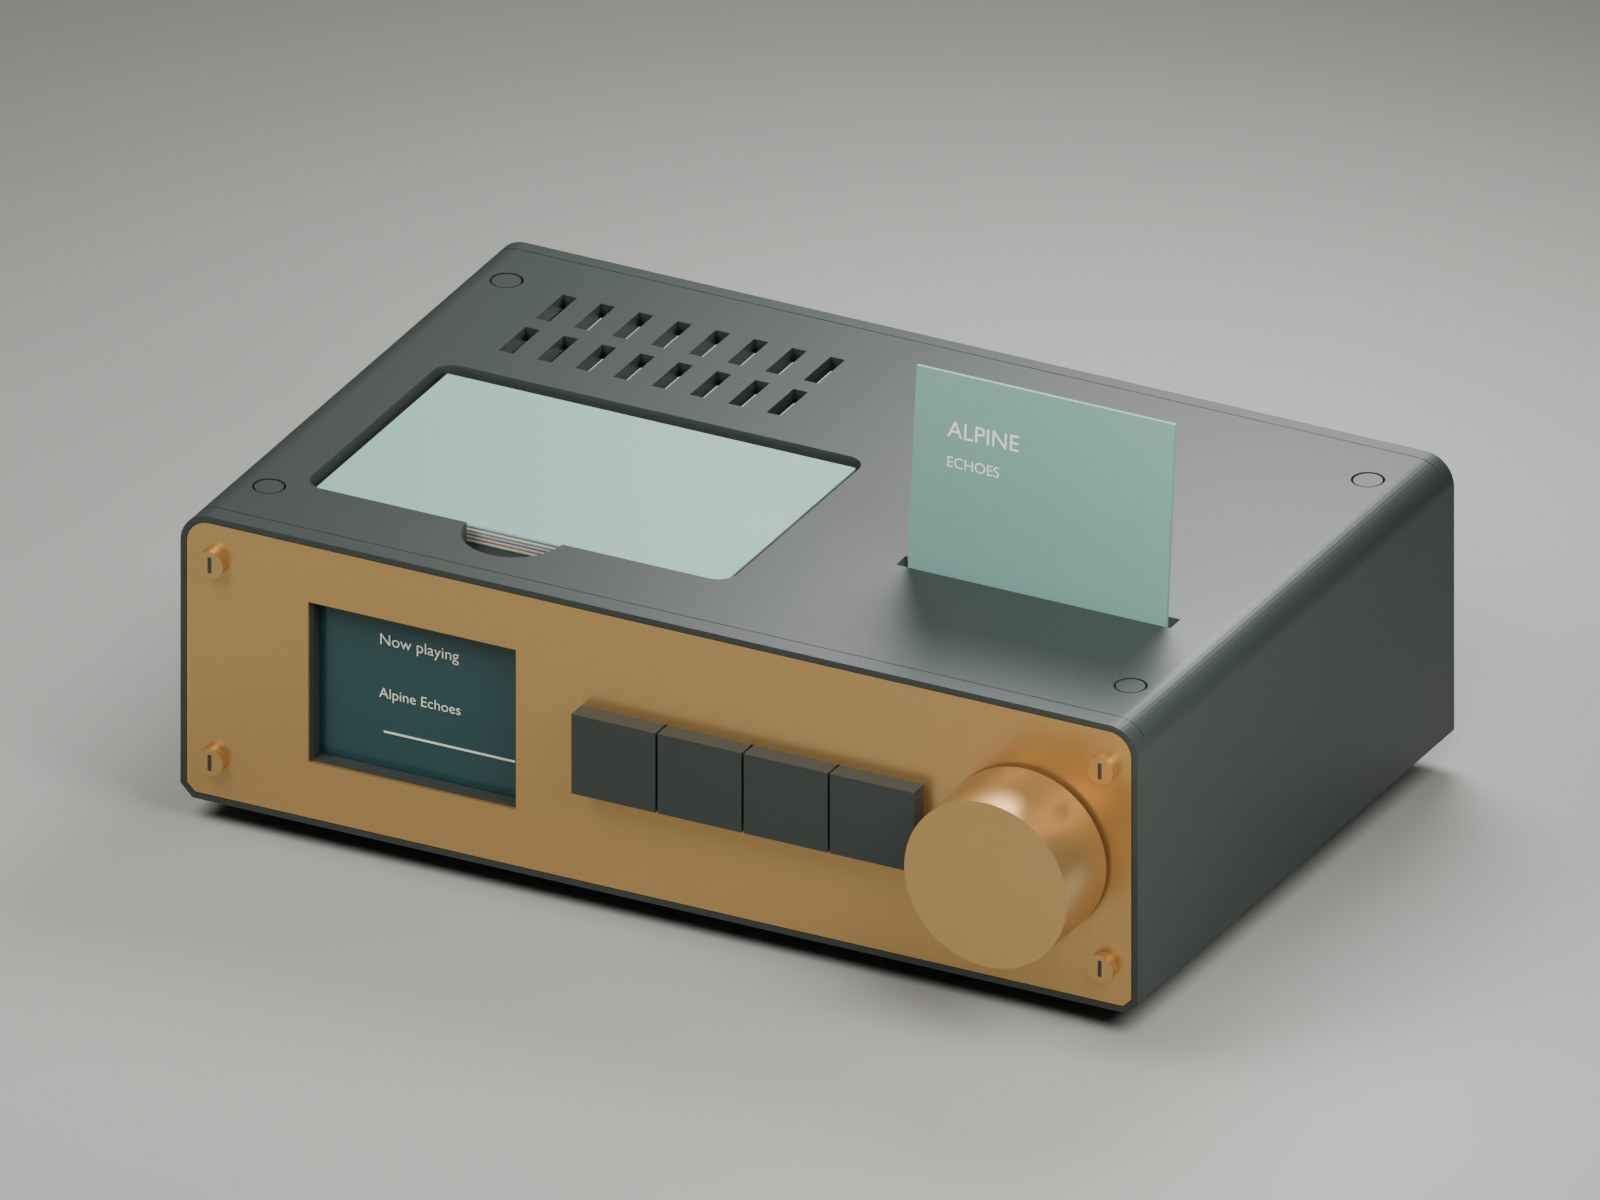
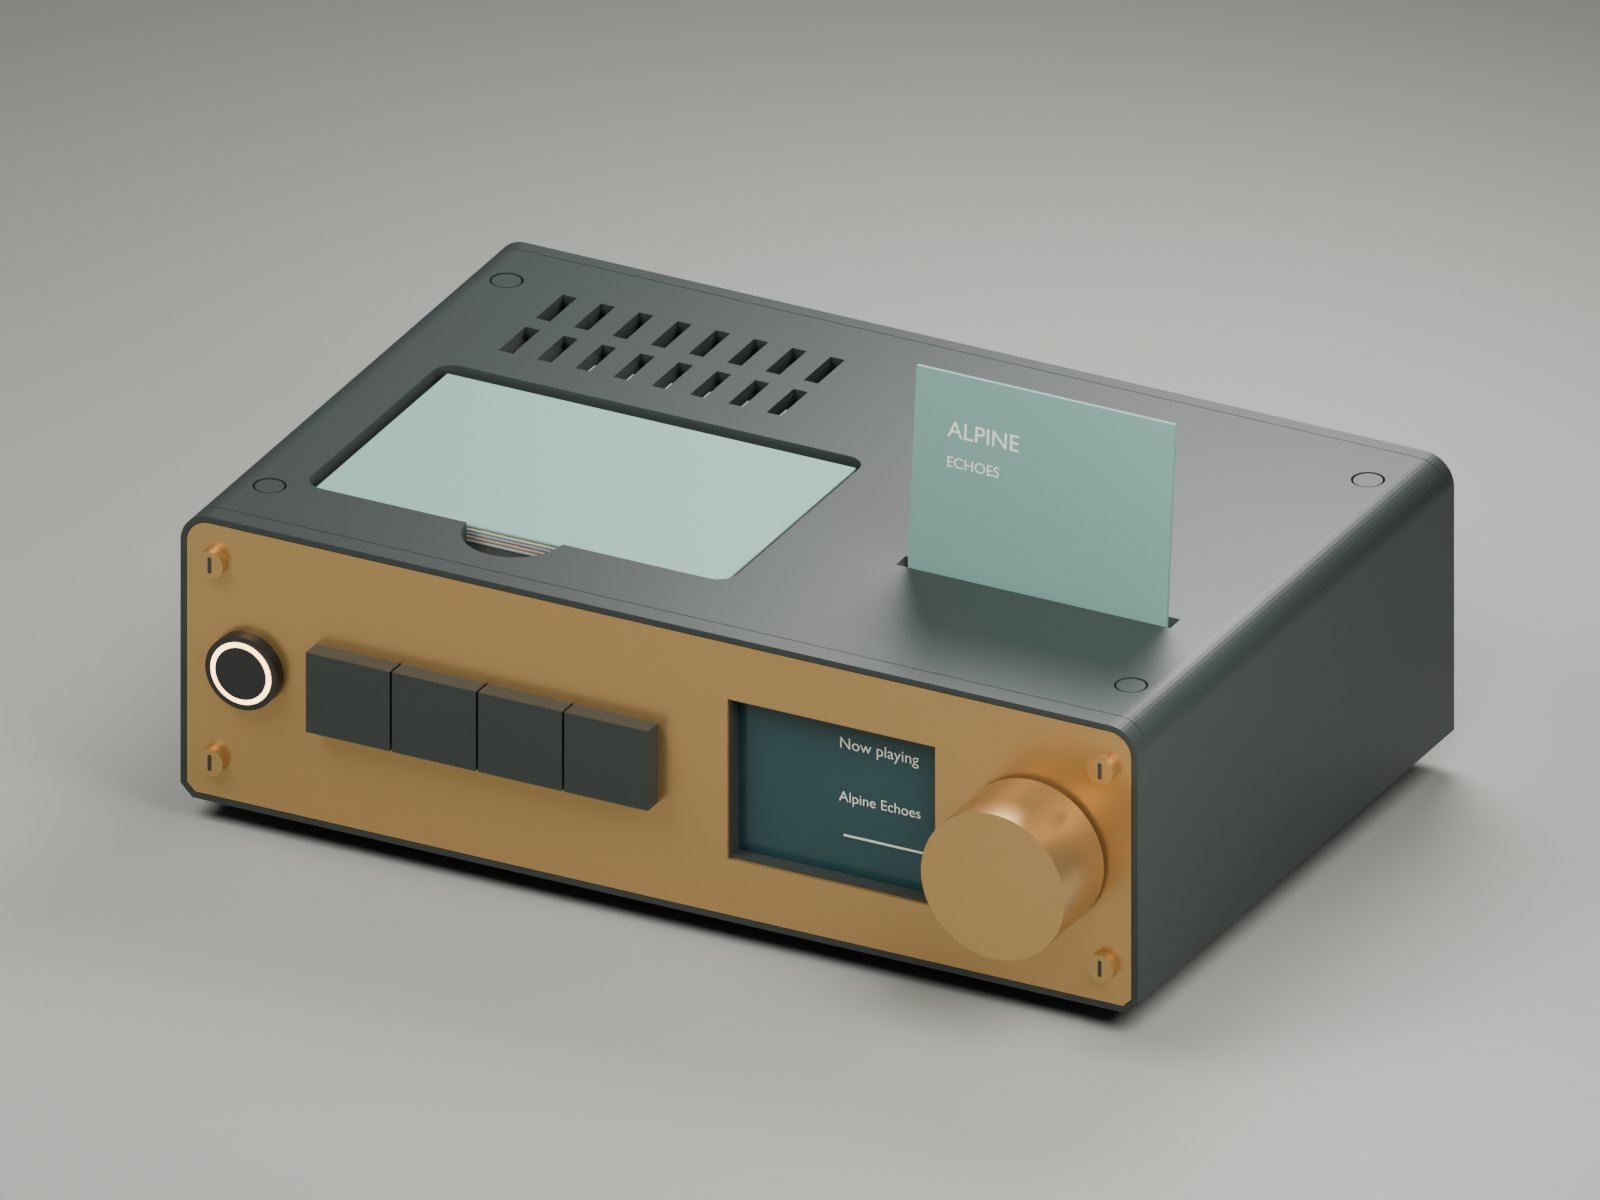
Show the new front in the site's render and in the image descriptions

diff --git a/index.html b/index.html
@@ -91,7 +91,7 @@
 <p class="lede">A tabletop music player where each album is a card. Put a card in the slot and its album plays; take it out and it pauses.</p>
 
 <figure class="hero">
-  <img src="docs/concept.jpg" width="1600" height="1200" alt="Render of the case design: a charcoal box with a brass front set inside a thin rim, a screen, four keys and a large knob, five cards in a tray on the lid and one card standing in a slot">
+  <img src="docs/concept.jpg" width="1600" height="1200" alt="Render of the case design: a charcoal box with a brass front set inside a thin rim, a lit power key, four keys, a screen and a knob, five cards in a tray on the lid and one card standing in a slot">
   <figcaption>Render of the case design, made from the same model as its printable parts. The case has not been printed yet; the working player is still parts on a bench.</figcaption>
 </figure>
 

diff --git a/README.md b/README.md
@@ -8,7 +8,7 @@
 
 A tabletop music player where each album is a card. Put a card in the slot and its album plays; take it out and it pauses. It is built for a Hi-Fi shelf: a proper DAC, a screen, a knob, and local storage for a whole collection.
 
-![Render of the case design: a charcoal box with a brass front set inside a thin rim, a lit power key, a screen, four keys and a large knob, five cards in a tray on the lid and one card standing in a slot](NFC-Player-Case/NFC-Player-Render.png)
+![Render of the case design: a charcoal box with a brass front set inside a thin rim, a lit power key, four keys, a screen and a knob, five cards in a tray on the lid and one card standing in a slot](NFC-Player-Case/NFC-Player-Render.png)
 
 *Render of the case design, made from the same model as its printable parts. The case has not been printed yet; the real build is currently parts on a bench.*
 
